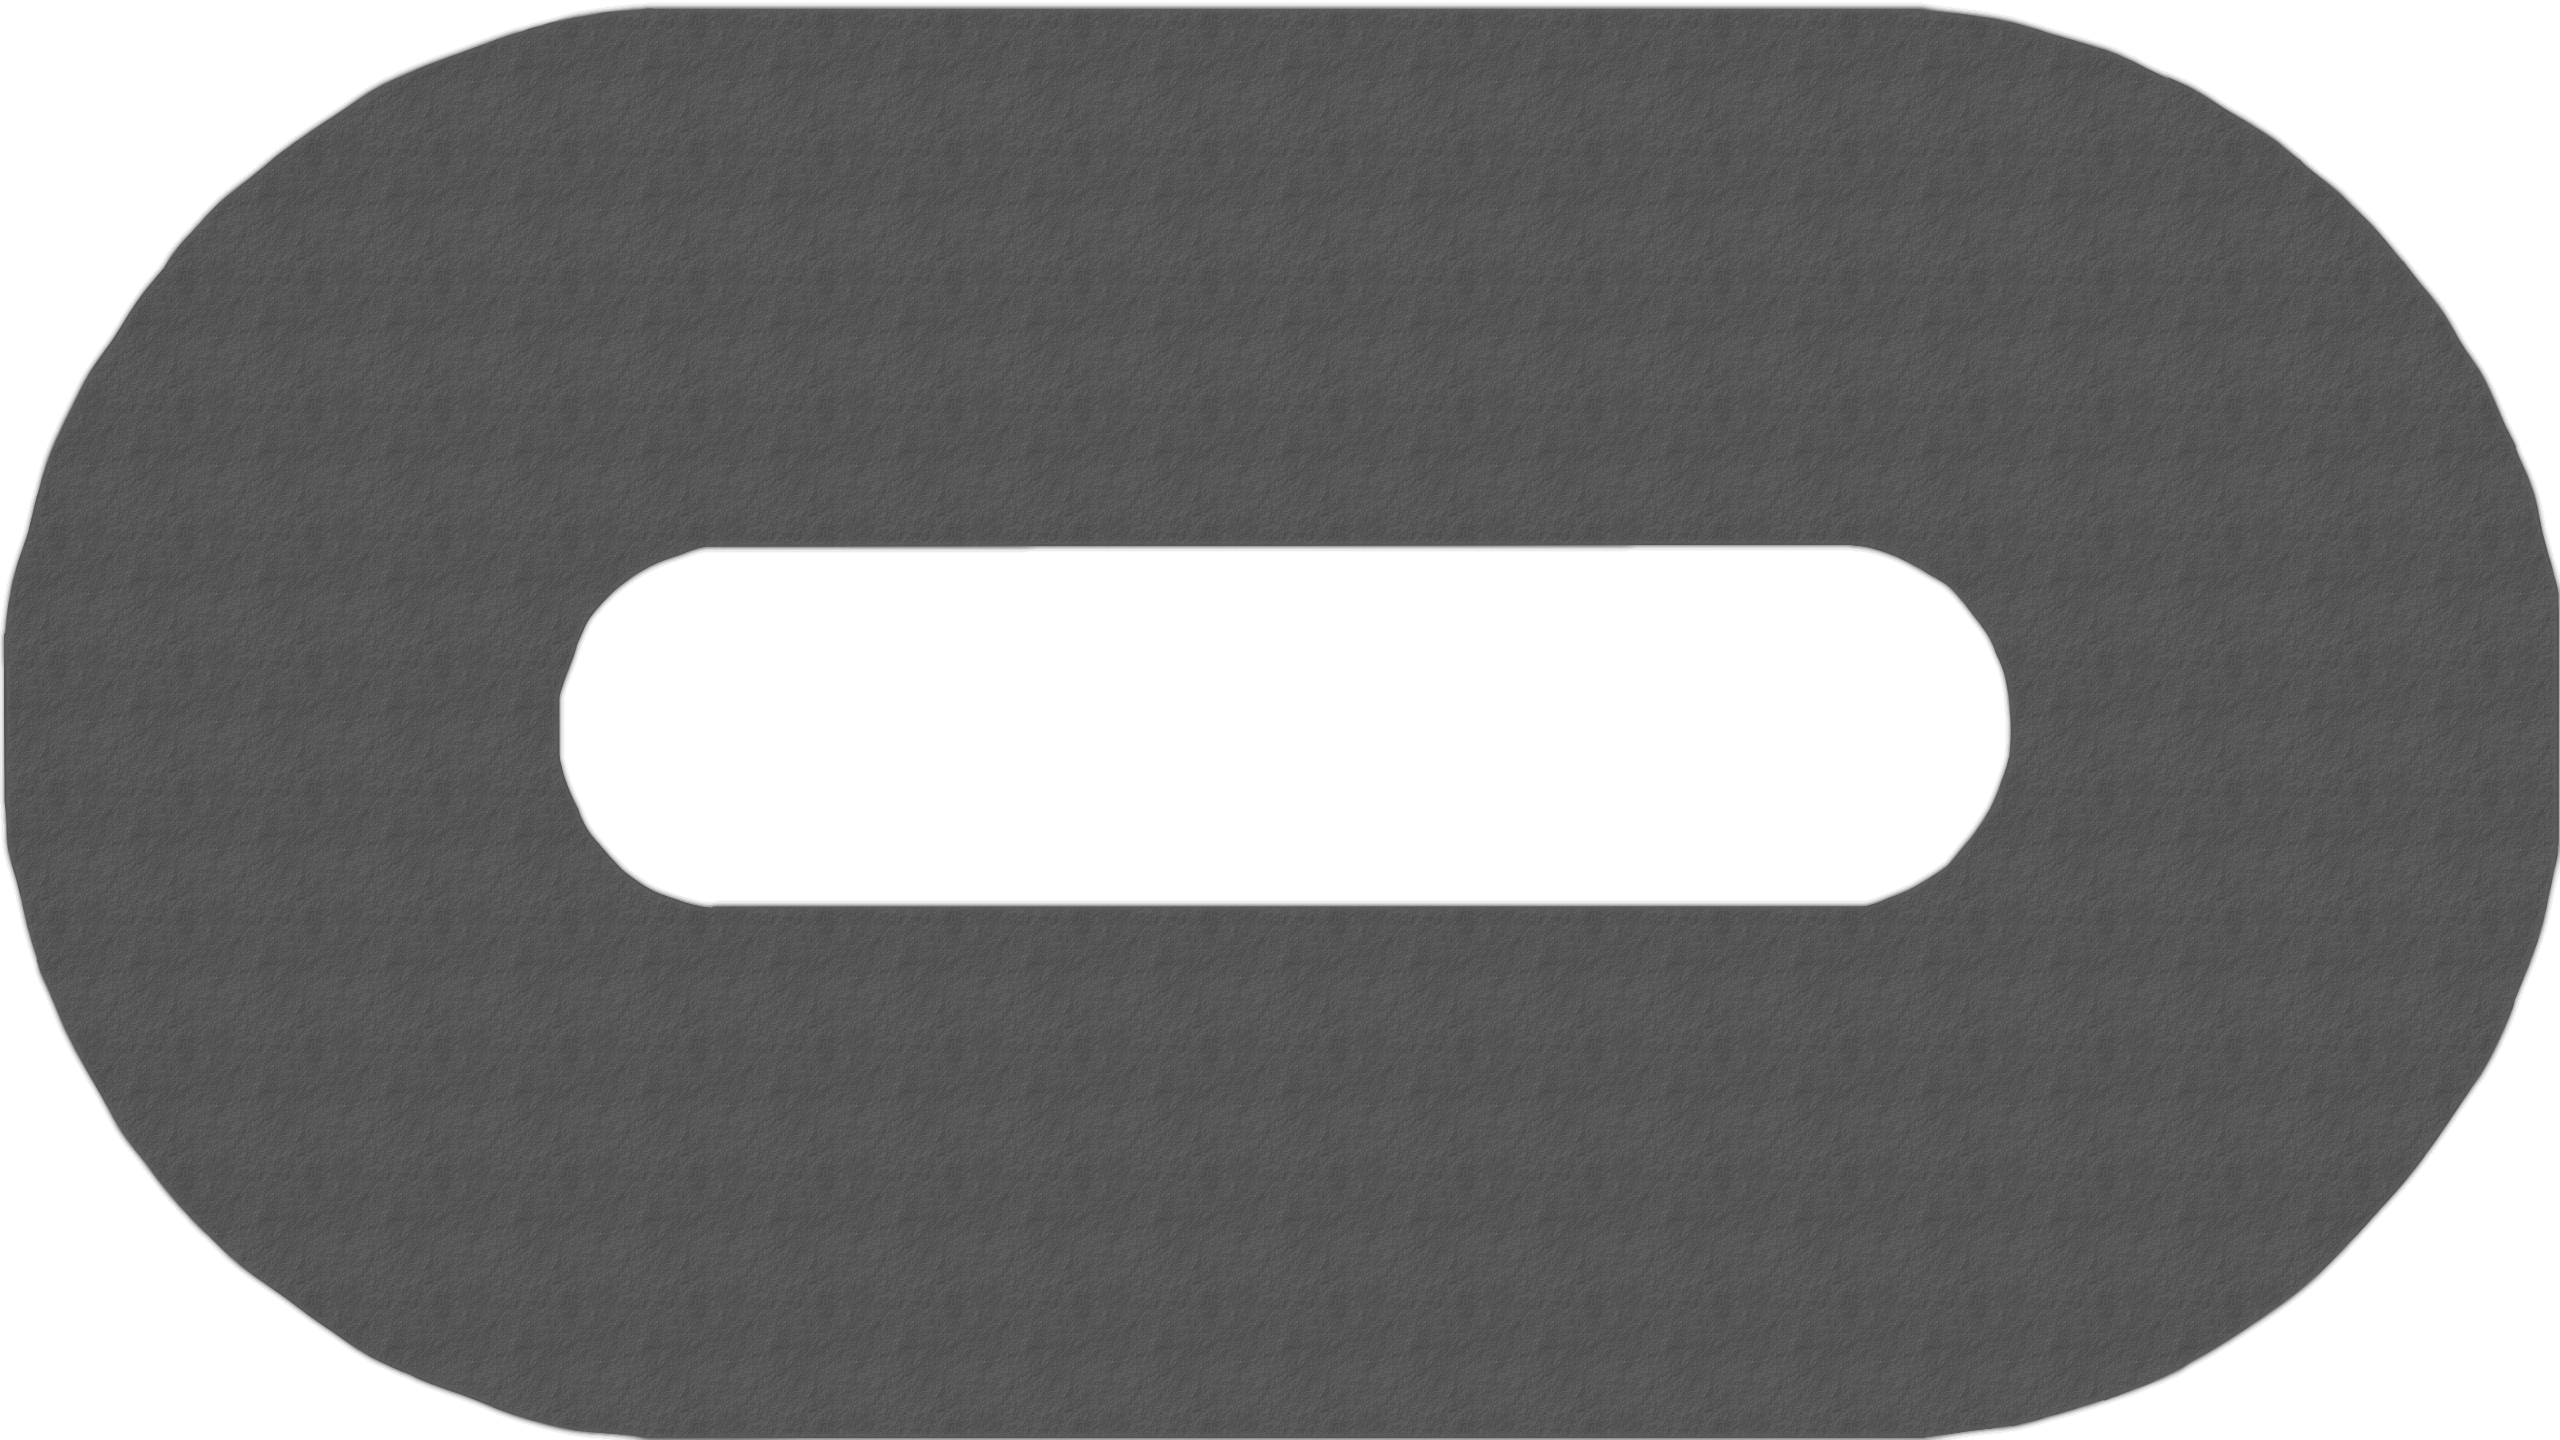
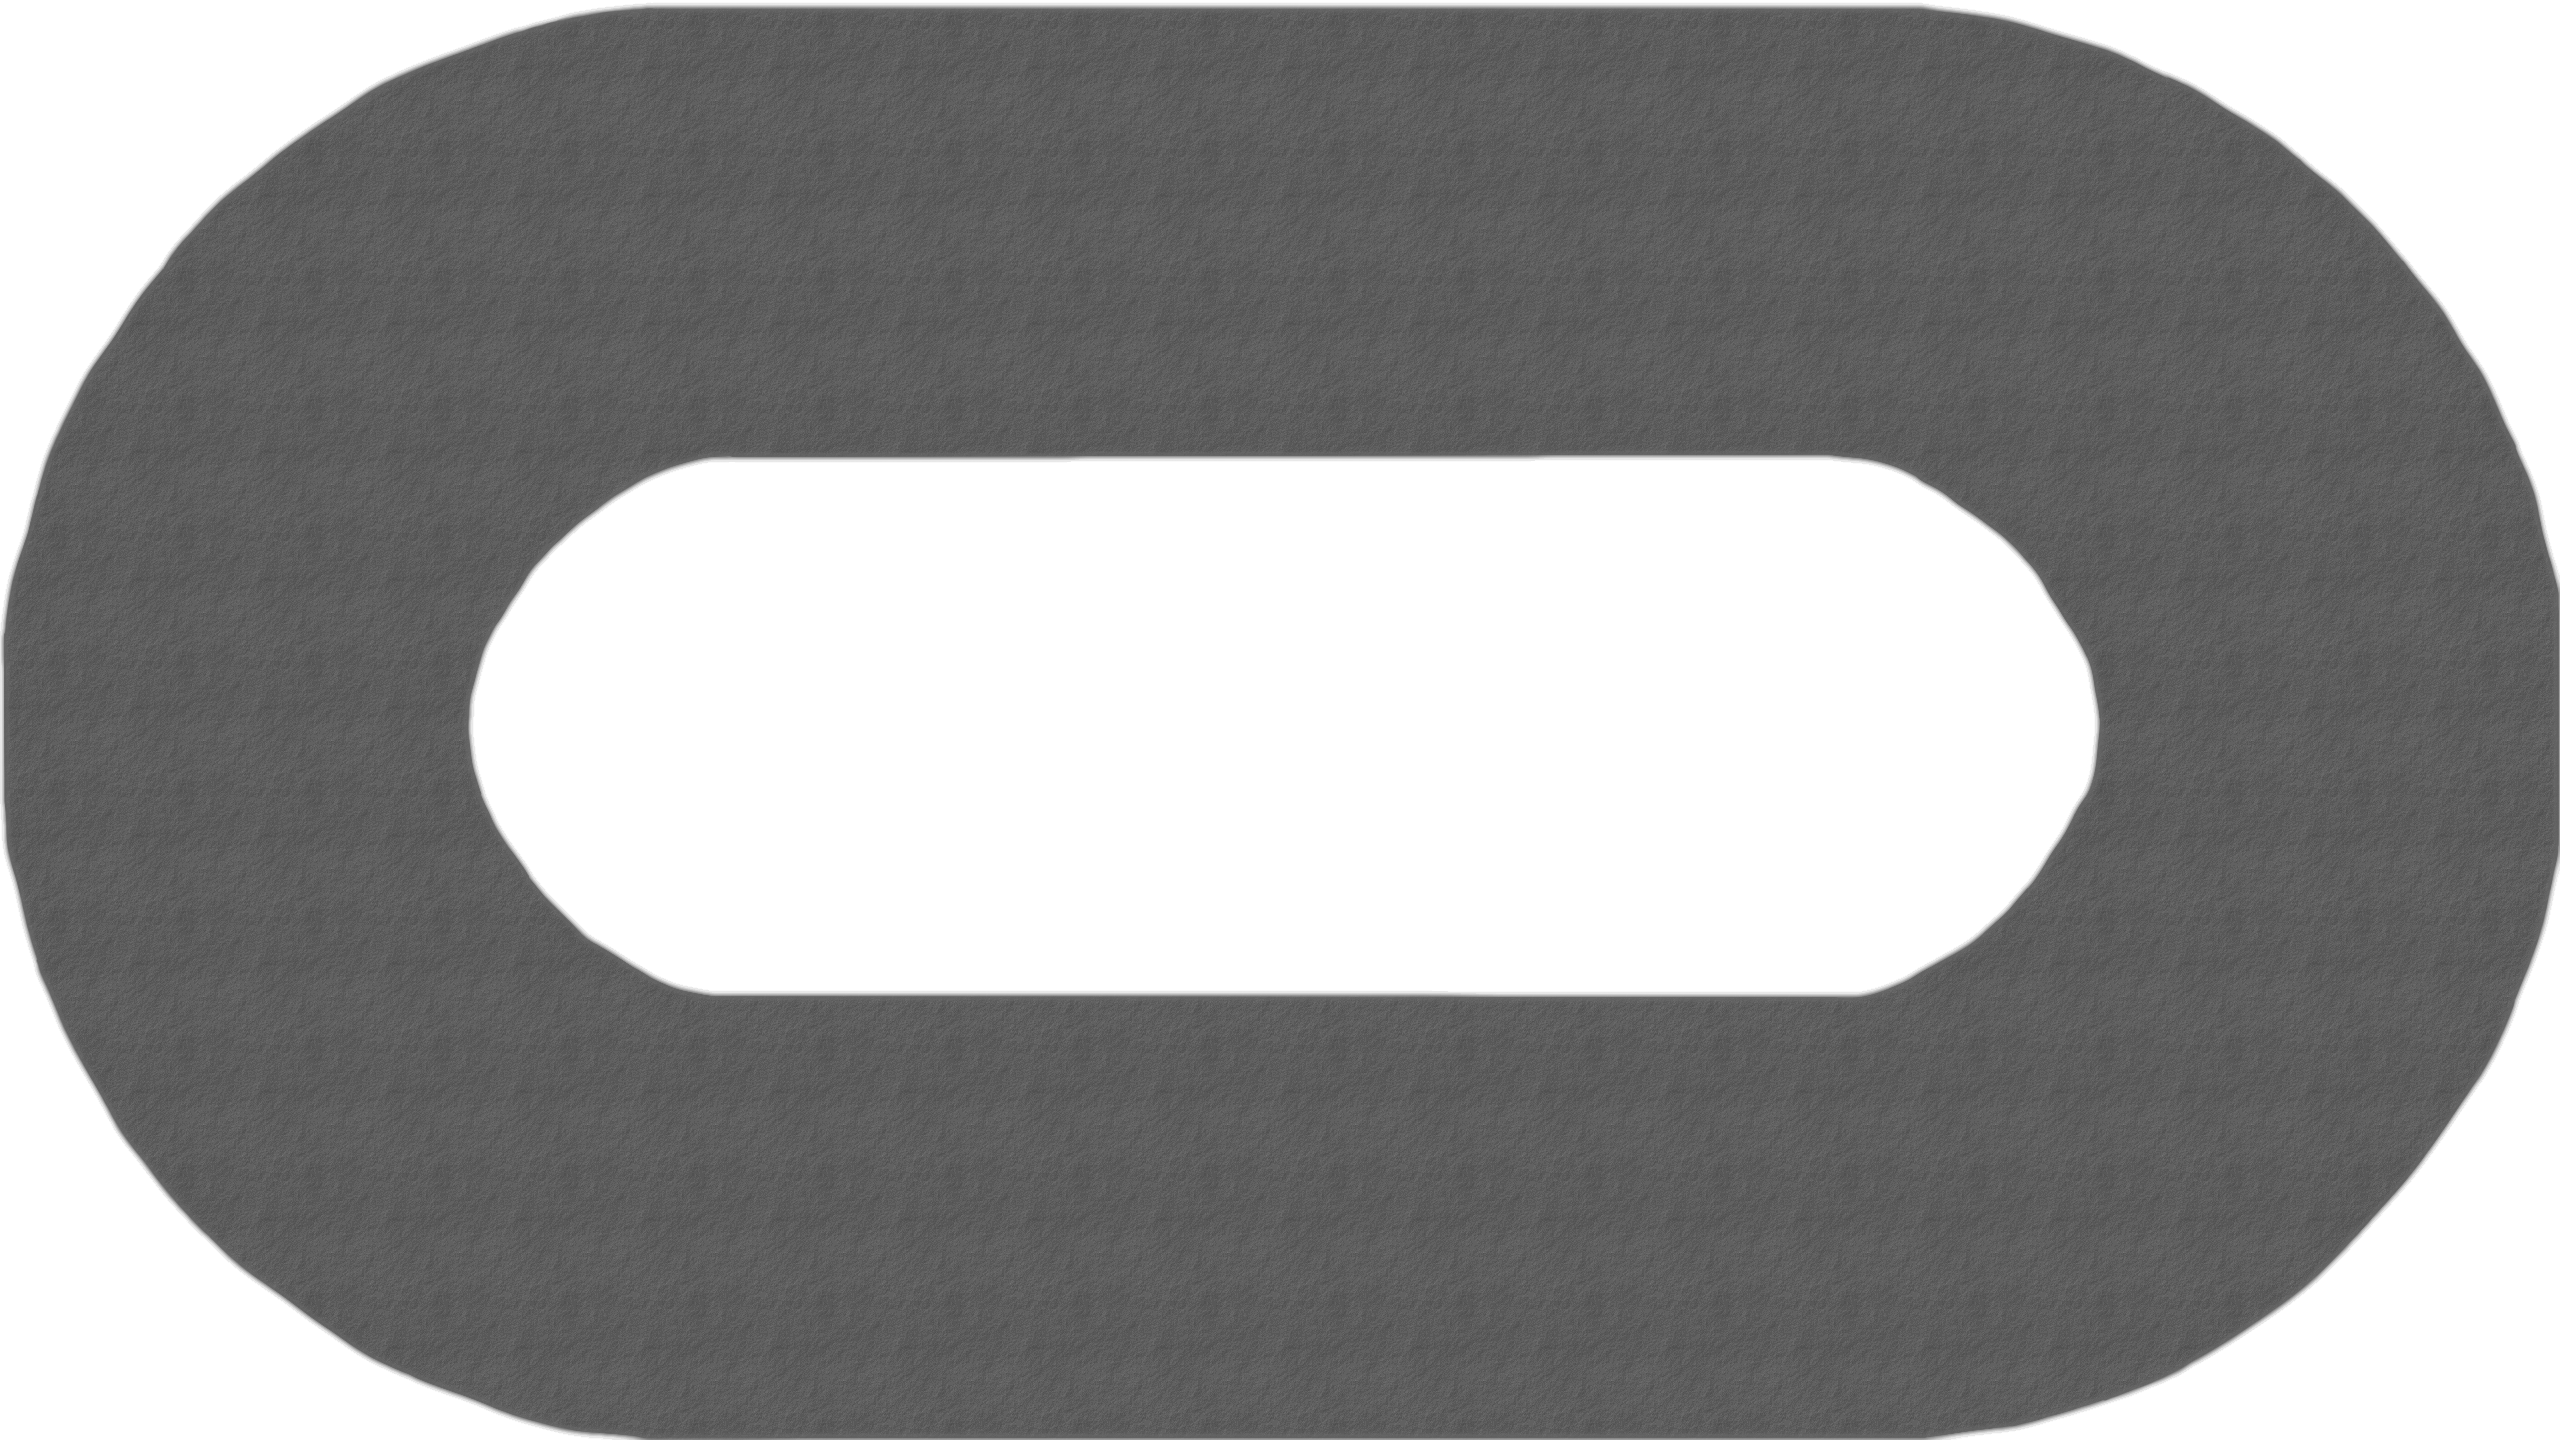
UPDATE

Changed region(s): [[0.1562, 0.3125, 0.8438, 0.7188]]

diff --git a/game/ui/load_image.py b/game/ui/load_image.py
@@ -12,22 +12,19 @@ GAME_SCREEN = pygame.display.set_mode((WIDTH, HEIGHT), FLAGS, 16, vsync=settings
 
 # maps
 first_map = res(pygame.image.load("../images/maps/first_map.png"), 0.75).convert_alpha()
-first_map_border = res(pygame.image.load("../images/borders/first_map_border3.png"), 0.75).convert_alpha()
+first_map_border = res(pygame.image.load("../images/borders/first_map_border.png"), 0.75).convert_alpha()
 
 second_map = res(pygame.image.load("../images/maps/second_map.png"), 0.75).convert_alpha()
-second_map_border = res(pygame.image.load("../images/borders/second_map_border2.png"), 0.75).convert_alpha()
+second_map_border = res(pygame.image.load("../images/borders/second_map_border.png"), 0.75).convert_alpha()
 
-third_map = res(pygame.image.load("../images/maps/third_map2.png"), 0.75).convert_alpha()
+third_map = res(pygame.image.load("../images/maps/third_map.png"), 0.75).convert_alpha()
 third_map_border = res(pygame.image.load("../images/borders/third_map_border.png"), 0.75).convert_alpha()
 
-fourth_map = res(pygame.image.load("../images/maps/fourth_map3.png"), 0.75).convert_alpha()
-fourth_map_border = res(pygame.image.load("../images/borders/fourth_map_border3.png"), 0.75).convert_alpha()
+fourth_map = res(pygame.image.load("../images/maps/fourth_map.png"), 0.75).convert_alpha()
+fourth_map_border = res(pygame.image.load("../images/borders/fourth_map_border.png"), 0.75).convert_alpha()
 
-# fifth_map = res(pygame.image.load("../images/maps/fifth_map2.png"), 0.75).convert_alpha()
-# fifth_map_border = res(pygame.image.load("../images/borders/fifth_map_border.png"), 0.75).convert_alpha()
-
-fifth_map = res(pygame.image.load("../images/maps/test_map3.png"), 0.75).convert_alpha()
-fifth_map_border = res(pygame.image.load("../images/borders/test_map_border.png"), 0.75).convert_alpha()
+fifth_map = res(pygame.image.load("../images/maps/fifth_map.png"), 0.75).convert_alpha()
+fifth_map_border = res(pygame.image.load("../images/borders/fifth_map_border.png"), 0.75).convert_alpha()
 
 # cars
 
@@ -86,9 +83,8 @@ on_off_button = res(pygame.image.load("../images/ui/buttons/on_off_button.png"),
 first_map_image = res(pygame.image.load("../images/ui/buttons/first_map_button.png"), 0.15).convert_alpha()
 second_map_image = res(pygame.image.load("../images/ui/buttons/second_map_button.png"), 0.15).convert_alpha()
 third_map_image = res(pygame.image.load("../images/ui/buttons/third_map_button.png"), 0.15).convert_alpha()
-fourth_map_image = res(pygame.image.load("../images/maps/fourth_map3.png"), 0.15).convert_alpha()
-# fifth_map_image = res(pygame.image.load("../images/maps/fifth_map2.png"), 0.15).convert_alpha()
-fifth_map_image = res(pygame.image.load("../images/maps/test_map3.png"), 0.15).convert_alpha()
+fourth_map_image = res(pygame.image.load("../images/maps/fourth_map.png"), 0.15).convert_alpha()
+fifth_map_image = res(pygame.image.load("../images/maps/fifth_map.png"), 0.15).convert_alpha()
 
 # banners
 esc_menu = res(pygame.image.load("../images/ui/esc_menu.png"), 1).convert_alpha()
@@ -119,7 +115,6 @@ nitro_2 = res(pygame.image.load("../images/ui/nitro/nitro_2.png"), 0.4).convert_
 nitro_3 = res(pygame.image.load("../images/ui/nitro/nitro_3.png"), 0.4).convert_alpha()
 nitro_4 = res(pygame.image.load("../images/ui/nitro/nitro_4.png"), 0.4).convert_alpha()
 nitro_5 = res(pygame.image.load("../images/ui/nitro/nitro_5.png"), 0.4).convert_alpha()
-
 
 car_selection_menu = res(pygame.image.load("../images/backgrounds/car_selection_background.png"), 1.5).convert_alpha()
 formula_selection = res(pygame.image.load("../images/ui/selections/formula_selection.png"), 2).convert_alpha()

diff --git a/game/ui/menu.py b/game/ui/menu.py
@@ -10,7 +10,7 @@ from game.ui.load_image import GAME_SCREEN, big_font, button_transparent_image, 
     orange_formula_selection, green_formula_selection, yellow_formula_selection, cyan_lambo_selection, \
     red_lambo_selection, pink_lambo_selection, third_map_image, dark_purple_spoiler_car_selection, \
     light_blue_spoiler_car_selection, orange_spoiler_car_selection, pink_spoiler_car_selection, spoiler_car_selection, \
-    pointer_right, pointer_left, on_off_button, button_image, fourth_map_image, fifth_map_image, medium_font
+    pointer_right, pointer_left, on_off_button, button_image, fourth_map_image, medium_font, fifth_map_image
 from game.ui.resolution import draw_text
 
 TITLE_Y = 70

diff --git a/game/maps/map_loop.py b/game/maps/map_loop.py
@@ -64,10 +64,15 @@ class MapLoop:
                 enemy_stopwatch = pygame.time.get_ticks() - settings.enemy_start_time
                 enemy_stopwatch = enemy_stopwatch // 100 / 10
 
+                #player_car.x = GAME_SCREEN.get_width() / 2
+                #player_car.y = GAME_SCREEN.get_height() / 2
+
                 GAME_SCREEN.blit(background, (0, 0))
                 GAME_SCREEN.blit(map_image, (0, 0))
                 GAME_SCREEN.blit(finish_line, finish_line_xy)
                 GAME_SCREEN.blit(map_border, (0, 0))
+
+
 
                 if enemy is None and enemy_route is None:
                     game_methods.start_countdown(player_car, player_car)

diff --git a/game/cars/player.py b/game/cars/player.py
@@ -10,6 +10,10 @@ from game.ui.load_image import blue_formula, blue_lambo, WIDTH, HEIGHT, GAME_SCR
 class Player(Car):
     x_position = 700
     y_position = 950
+
+    #x_position = GAME_SCREEN.get_width() / 2
+    #y_position = GAME_SCREEN.get_height() / 2
+
     car_image = blue_formula
     car_angle = 270
 
@@ -51,8 +55,8 @@ class Player(Car):
         self.car_angle = 270
 
     def respawn_fifth_map(self):
-        self.x = 450
-        self.y = 850
+        self.x = 680
+        self.y = 950
         self.car_angle = 270
 
     def out_of_map(self):

diff --git a/game/config/settings.py b/game/config/settings.py
@@ -5,7 +5,7 @@ FINISH_LINES = {
     2: {'FINISH_LINE': (580, 788), 'FINISH_LINE_RANGES': [(650, 860), (680, 1080)]},
     3: {'FINISH_LINE': (480, 855), 'FINISH_LINE_RANGES': [(550, 860), (580, 1080)]},
     4: {'FINISH_LINE': (550, 732), 'FINISH_LINE_RANGES': [(600, 750), (700, 1080)]},
-    5: {'FINISH_LINE': (340, 800), 'FINISH_LINE_RANGES': [(400, 750), (500, 1080)]}
+    5: {'FINISH_LINE': (540, 800), 'FINISH_LINE_RANGES': [(550, 800), (670, 1080)]}
 }
 
 # check start game
